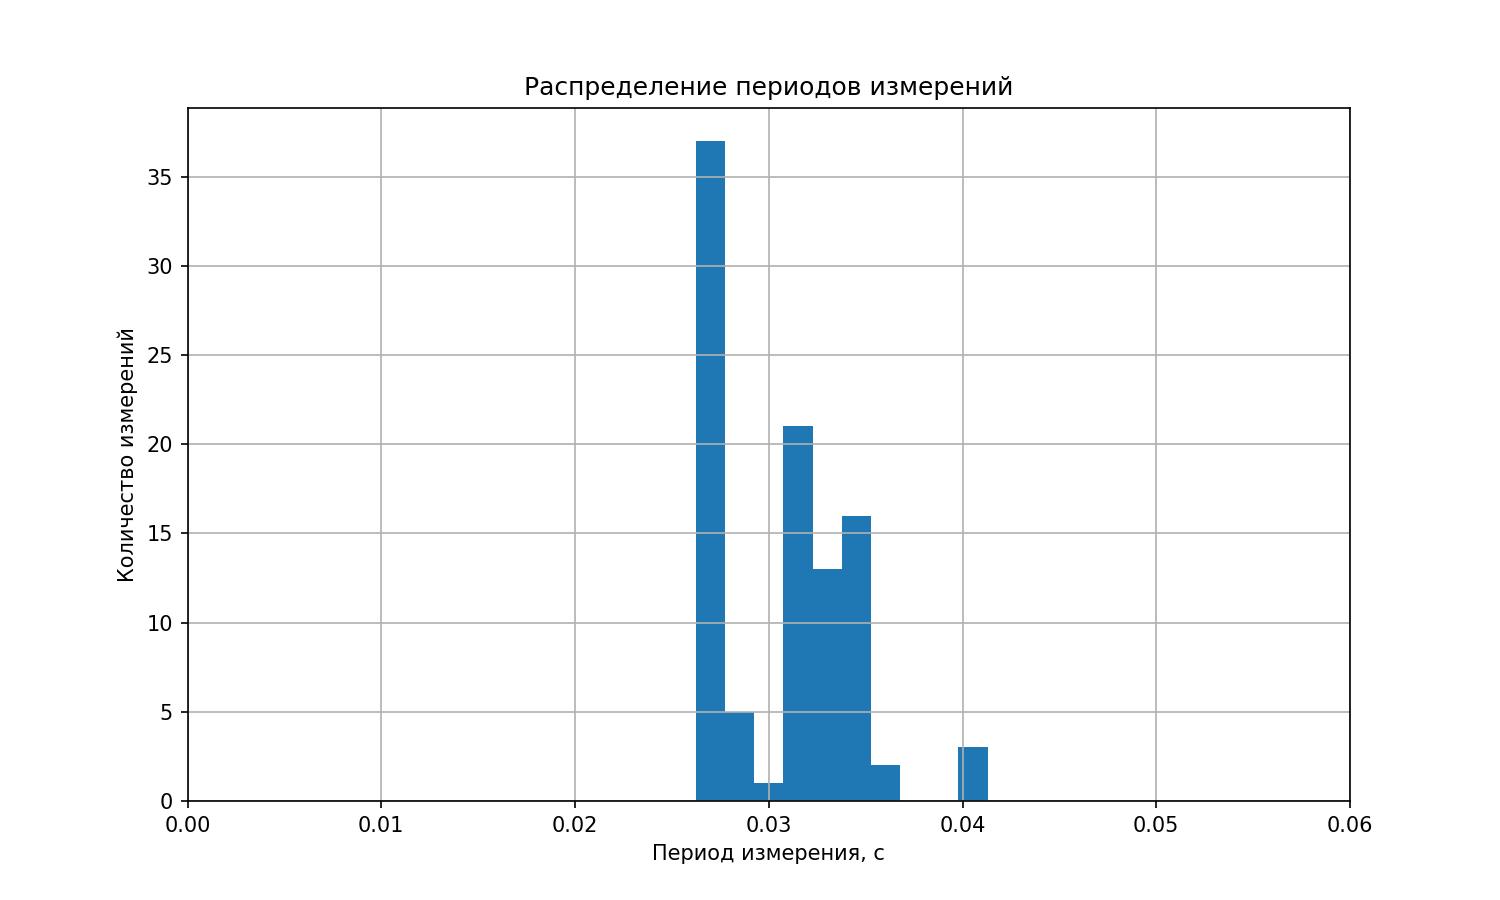
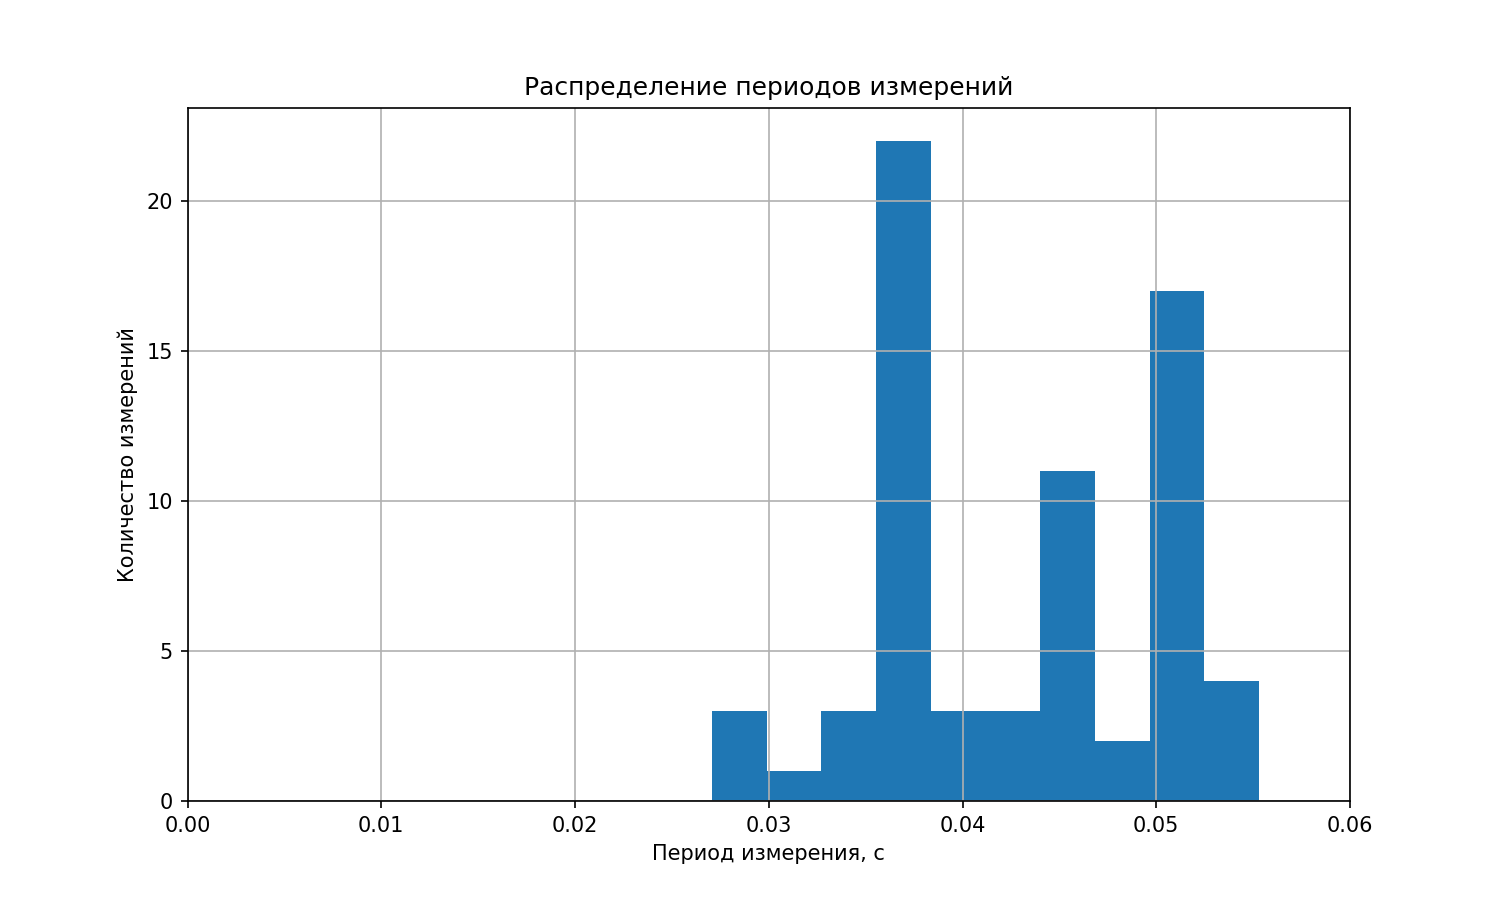
adc full

diff --git a/get-adc/mcp3021_driver.py b/get-adc/mcp3021_driver.py
@@ -31,12 +31,12 @@ class MCP3021:
 if __name__ == "__main__":
     adc = None
     try:
-        adc = MCP3021(5.0)
+        adc = MCP3021(5.195)
 
         while True:
             voltage = adc.get_voltage()
             print(f"Напряжение: {voltage:.2f} В")
-            time.sleep(1)
+            time.sleep(1)                                                  
 
     finally:
         if adc is not None:

diff --git a/get-adc/r2r-sar.py b/get-adc/r2r-sar.py
@@ -9,7 +9,7 @@ adc = r2r_adc.R2R_ADC(dynamic_range, compare_time=0.0001)
 
 voltage_values = []
 time_values = []
-duration = 10.0
+duration = 3.0
 
 try:
     start = time.time()

diff --git a/get-adc/mcp.py b/get-adc/mcp.py
@@ -3,7 +3,7 @@ import time
 import mcp3021_driver
 import adc_plot
 
-dynamic_range = 5.0
+dynamic_range = 5.195
 
 adc = mcp3021_driver.MCP3021(dynamic_range)
 
